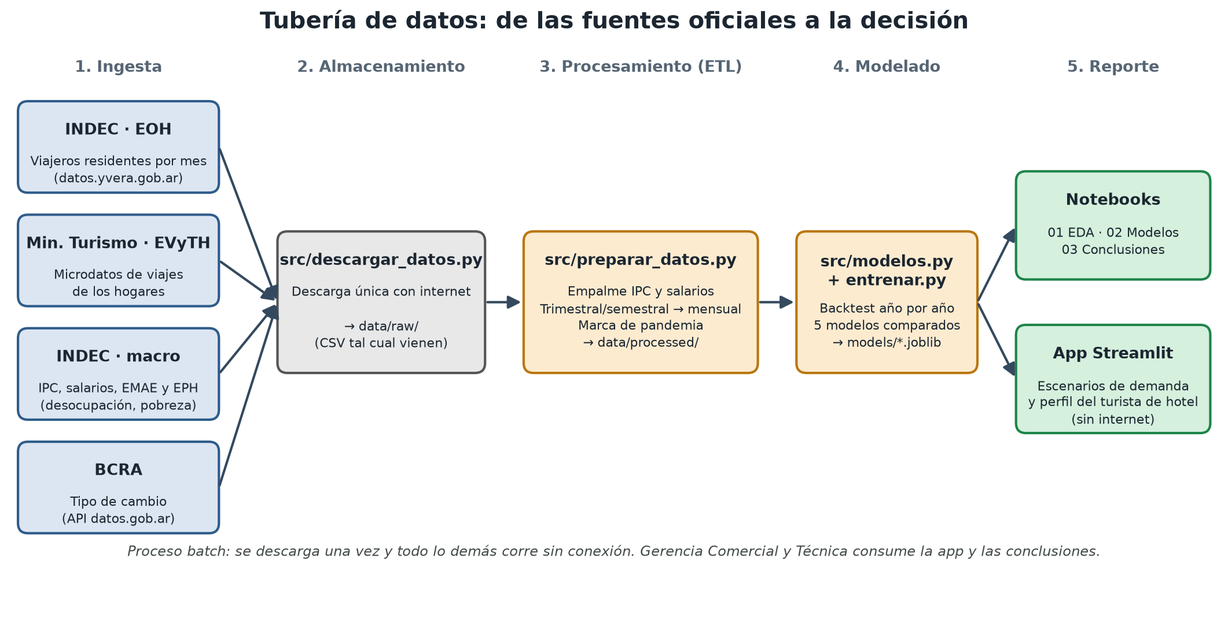
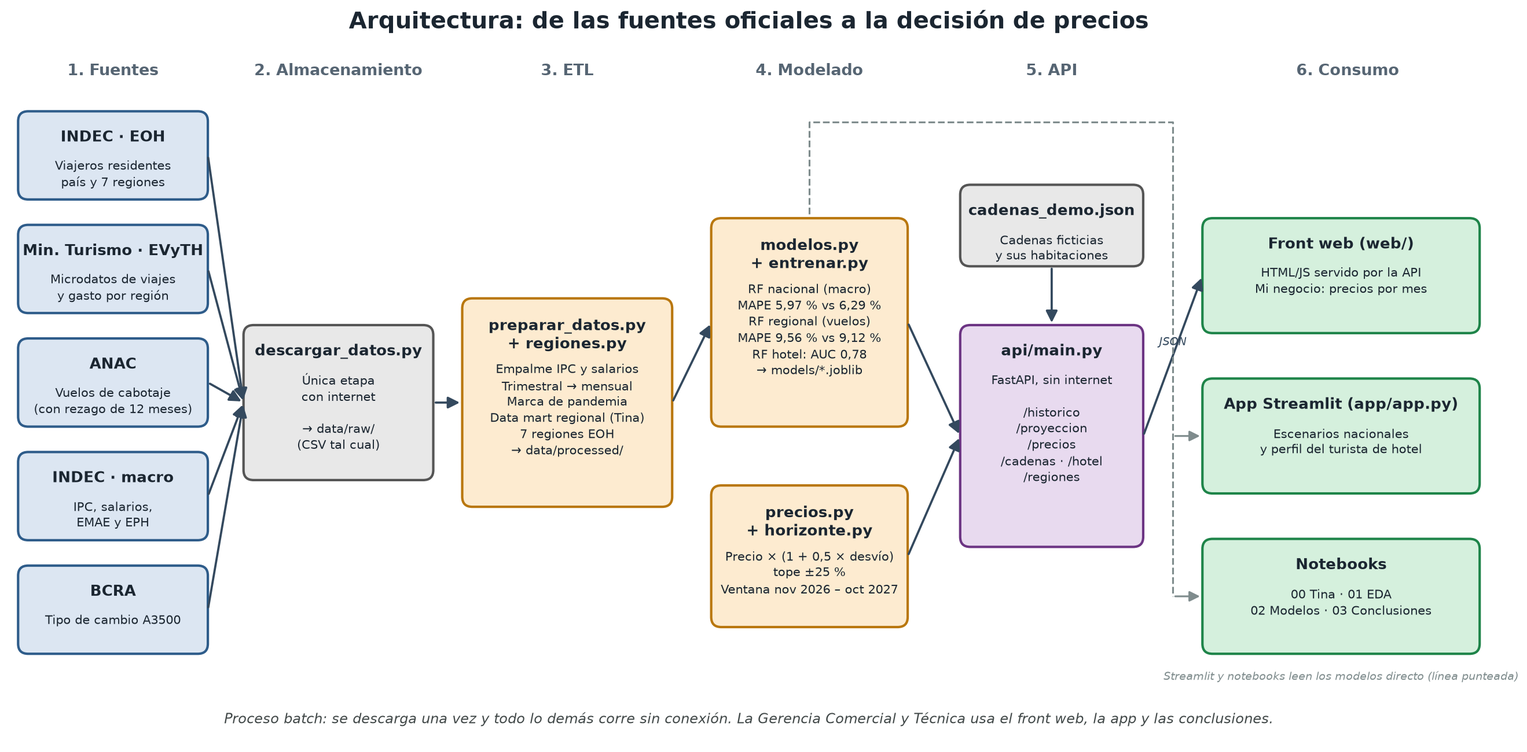
docs: hipótesis y diagrama de arquitectura al día con modelo regional, api y front

diff --git a/docs/generar_diagrama.py b/docs/generar_diagrama.py
@@ -1,4 +1,4 @@
-"""Dibuja docs/img/arquitectura.png (tubería de datos) con matplotlib.
+r"""Dibuja docs/img/arquitectura.png (arquitectura de la solución) con matplotlib.
 
 Uso: .venv\Scripts\python docs/generar_diagrama.py docs/img/arquitectura.png
 """
@@ -13,69 +13,101 @@ from matplotlib.patches import FancyArrowPatch, FancyBboxPatch
 salida = Path(sys.argv[1])
 salida.parent.mkdir(parents=True, exist_ok=True)
 
-fig, ax = plt.subplots(figsize=(18, 9), dpi=150)
-ax.set_xlim(0, 182)
-ax.set_ylim(0, 90)
+fig, ax = plt.subplots(figsize=(22, 11), dpi=150)
+ax.set_xlim(0, 220)
+ax.set_ylim(0, 110)
 ax.axis("off")
 
-COLORES = {"fuente": "#DCE6F2", "proceso": "#FDEBD0", "almacen": "#E8E8E8", "salida": "#D5F0DD"}
-BORDE = {"fuente": "#2E5C8A", "proceso": "#B9770E", "almacen": "#555555", "salida": "#1E8449"}
+COLORES = {"fuente": "#DCE6F2", "proceso": "#FDEBD0", "almacen": "#E8E8E8", "servicio": "#E8DAEF",
+           "salida": "#D5F0DD"}
+BORDE = {"fuente": "#2E5C8A", "proceso": "#B9770E", "almacen": "#555555", "servicio": "#6C3483",
+         "salida": "#1E8449"}
 
 
 def caja(x, y, w, h, titulo, detalle, tipo):
     ax.add_patch(FancyBboxPatch((x, y), w, h, boxstyle="round,pad=0.6,rounding_size=1.5",
                                 fc=COLORES[tipo], ec=BORDE[tipo], lw=2))
-    ax.text(x + w / 2, y + h - 2.6, titulo, ha="center", va="top", fontsize=13, weight="bold", color="#1B2631")
-    ax.text(x + w / 2, y + h - 7.2, detalle, ha="center", va="top", fontsize=10.5, color="#1B2631",
+    ax.text(x + w / 2, y + h - 2.2, titulo, ha="center", va="top", fontsize=12.5, weight="bold", color="#1B2631")
+    ax.text(x + w / 2, y + h - 6.4, detalle, ha="center", va="top", fontsize=10, color="#1B2631",
             linespacing=1.35)
     return (x, y, w, h)
 
 
-def flecha(a, b, lado_a="r", lado_b="l"):
+def flecha(a, b, lado_a="r", lado_b="l", etiqueta=None):
     def punto(c, lado):
         x, y, w, h = c
         return {"r": (x + w + 0.6, y + h / 2), "l": (x - 0.6, y + h / 2),
                 "t": (x + w / 2, y + h + 0.6), "b": (x + w / 2, y - 0.6)}[lado]
-    ax.add_patch(FancyArrowPatch(punto(a, lado_a), punto(b, lado_b), arrowstyle="-|>", mutation_scale=22,
-                                 lw=2, color="#34495E"))
+    p1, p2 = punto(a, lado_a), punto(b, lado_b)
+    ax.add_patch(FancyArrowPatch(p1, p2, arrowstyle="-|>", mutation_scale=20, lw=1.8, color="#34495E"))
+    if etiqueta:
+        ax.text((p1[0] + p2[0]) / 2, (p1[1] + p2[1]) / 2 + 1.2, etiqueta, ha="center", va="bottom", fontsize=9,
+                style="italic", color="#34495E")
 
 
-ax.text(91, 87, "Tubería de datos: de las fuentes oficiales a la decisión", ha="center", fontsize=19,
+ax.text(110, 107, "Arquitectura: de las fuentes oficiales a la decisión de precios", ha="center", fontsize=19,
         weight="bold", color="#1B2631")
-for x, etiqueta in [(16.5, "1. Ingesta"), (56, "2. Almacenamiento"), (95, "3. Procesamiento (ETL)"),
-                    (132, "4. Modelado"), (166, "5. Reporte")]:
-    ax.text(x, 80.5, etiqueta, ha="center", fontsize=13, weight="bold", color="#566573")
+for x, etiqueta in [(15.5, "1. Fuentes"), (49, "2. Almacenamiento"), (83, "3. ETL"), (119, "4. Modelado"),
+                    (155, "5. API"), (199, "6. Consumo")]:
+    ax.text(x, 100, etiqueta, ha="center", fontsize=13, weight="bold", color="#566573")
 
+# 1. Fuentes
 fuentes = [
-    ("INDEC · EOH", "Viajeros residentes por mes\n(datos.yvera.gob.ar)"),
-    ("Min. Turismo · EVyTH", "Microdatos de viajes\nde los hogares"),
-    ("INDEC · macro", "IPC, salarios, EMAE y EPH\n(desocupación, pobreza)"),
-    ("BCRA", "Tipo de cambio\n(API datos.gob.ar)"),
+    ("INDEC · EOH", "Viajeros residentes\npaís y 7 regiones"),
+    ("Min. Turismo · EVyTH", "Microdatos de viajes\ny gasto por región"),
+    ("ANAC", "Vuelos de cabotaje\n(con rezago de 12 meses)"),
+    ("INDEC · macro", "IPC, salarios,\nEMAE y EPH"),
+    ("BCRA", "Tipo de cambio A3500"),
 ]
-cajas_f = []
-for i, (t, d) in enumerate(fuentes):
-    y = 63 - i * 17
-    cajas_f.append(caja(2, y, 29, 12.5, t, d, "fuente"))
+cajas_f = [caja(2, 82 - i * 17, 27, 12, t, d, "fuente") for i, (t, d) in enumerate(fuentes)]
 
-desc = caja(41, 36, 30, 20, "src/descargar_datos.py", "Descarga única con internet\n\n→ data/raw/\n(CSV tal cual vienen)",
+# 2. Almacenamiento
+desc = caja(35.5, 40, 27, 22, "descargar_datos.py", "Única etapa\ncon internet\n\n→ data/raw/\n(CSV tal cual)",
             "almacen")
-prep = caja(78, 36, 34, 20, "src/preparar_datos.py", "Empalme IPC y salarios\nTrimestral/semestral → mensual\n"
-            "Marca de pandemia\n→ data/processed/", "proceso")
-mod = caja(119, 36, 26, 20, "src/modelos.py\n+ entrenar.py", "\nBacktest año por año\n5 modelos comparados\n"
-           "→ models/*.joblib", "proceso")
-nb = caja(152, 50, 28, 15, "Notebooks", "01 EDA · 02 Modelos\n03 Conclusiones", "salida")
-app = caja(152, 27, 28, 15, "App Streamlit", "Escenarios de demanda\ny perfil del turista de hotel\n(sin internet)",
+
+# 3. ETL
+prep = caja(68, 36, 30, 30, "preparar_datos.py\n+ regiones.py",
+            "\nEmpalme IPC y salarios\nTrimestral → mensual\nMarca de pandemia\n"
+            "Data mart regional (Tina)\n7 regiones EOH\n→ data/processed/", "proceso")
+
+# 4. Modelado
+mod = caja(105, 48, 28, 30, "modelos.py\n+ entrenar.py",
+           "\nRF nacional (macro)\nMAPE 5,97 % vs 6,29 %\nRF regional (vuelos)\nMAPE 9,56 % vs 9,12 %\n"
+           "RF hotel: AUC 0,78\n→ models/*.joblib", "proceso")
+reglas = caja(105, 18, 28, 20, "precios.py\n+ horizonte.py",
+              "\nPrecio × (1 + 0,5 × desvío)\ntope ±25 %\nVentana nov 2026 – oct 2027", "proceso")
+
+# 5. API
+api = caja(142, 30, 26, 32, "api/main.py",
+           "FastAPI, sin internet\n\n/historico\n/proyeccion\n/precios\n/cadenas · /hotel\n/regiones", "servicio")
+cad = caja(142, 72, 26, 11, "cadenas_demo.json", "Cadenas ficticias\ny sus habitaciones", "almacen")
+
+# 6. Consumo
+web = caja(178, 62, 40, 16, "Front web (web/)", "HTML/JS servido por la API\nMi negocio: precios por mes",
            "salida")
+st_ = caja(178, 38, 40, 16, "App Streamlit (app/app.py)", "Escenarios nacionales\ny perfil del turista de hotel",
+           "salida")
+nb = caja(178, 14, 40, 16, "Notebooks", "00 Tina · 01 EDA\n02 Modelos · 03 Conclusiones", "salida")
 
 for c in cajas_f:
     flecha(c, desc)
 flecha(desc, prep)
 flecha(prep, mod)
-flecha(mod, nb)
-flecha(mod, app)
+flecha(mod, api)
+flecha(reglas, api)
+flecha(cad, api, "b", "t")
+flecha(api, web, etiqueta="JSON")
+# Streamlit y notebooks leen modelos y datos directo, sin pasar por la API: línea punteada por arriba
+GRIS = dict(color="#7F8C8D", lw=1.5, linestyle="--")
+ax.plot([119, 119, 173, 173], [79.2, 93, 93, 22], **GRIS)
+for y in (46, 22):
+    ax.add_patch(FancyArrowPatch((173, y), (177.4, y), arrowstyle="-|>", mutation_scale=18, lw=1.5,
+                                 color="#7F8C8D"))
+ax.text(198, 9.5, "Streamlit y notebooks leen los modelos directo (línea punteada)", ha="center", fontsize=9,
+        style="italic", color="#7F8C8D")
 
-ax.text(91, 8, "Proceso batch: se descarga una vez y todo lo demás corre sin conexión. "
-        "Gerencia Comercial y Técnica consume la app y las conclusiones.",
+ax.text(110, 3, "Proceso batch: se descarga una vez y todo lo demás corre sin conexión. "
+        "La Gerencia Comercial y Técnica usa el front web, la app y las conclusiones.",
         ha="center", fontsize=11.5, style="italic", color="#424949")
 
 fig.savefig(salida, bbox_inches="tight", facecolor="white")

diff --git a/docs/hipotesis_y_arquitectura.md b/docs/hipotesis_y_arquitectura.md
@@ -1,0 +1,232 @@
+# Hipótesis y arquitectura de la solución
+
+Estado del repo al 25-10-2026 (rama `main`). Este documento reemplaza a `docs/arquitectura.md` como referencia de arquitectura; el modelo dimensional sigue allá.
+
+**Audiencia:** Gerencia Comercial y Técnica de una cadena hotelera argentina. No son especialistas en datos.
+
+---
+
+## 1. Hipótesis
+
+### 1.1 Hipótesis original (la del arranque del TPO)
+
+Tal como está en `SPEC.md`:
+
+> «La demanda de turismo interno en Argentina se puede anticipar a partir del contexto económico de los hogares (salario real, inflación, desempleo, pobreza, tipo de cambio), y eso le permite a una cadena hotelera / agencia de viajes planificar la temporada de verano con números en vez de a ojo.»
+
+### 1.2 Hipótesis actualizada — PROPUESTA (falta que el grupo la apruebe)
+
+> **PROPUESTA:** «La demanda hotelera de turismo interno en Argentina se puede anticipar para los próximos 12 meses: en el total del país, a partir del contexto económico de los hogares, y en cada región, a partir de su temporada y de los vuelos de cabotaje. Con eso, la Gerencia Comercial y Técnica de una cadena hotelera puede planificar la temporada y ajustar el precio de cada habitación según cuánto se aparta la demanda esperada de lo normal, con números en vez de a ojo.»
+
+| Pregunta de la cátedra | Respuesta |
+|---|---|
+| **¿Qué resolvemos?** | Cuántos viajeros residentes van a llegar a hoteles y parahoteles en los próximos 12 meses (nov 2026 a oct 2027), en el total del país y en cada una de las 7 regiones de la EOH, y qué precio conviene cobrar en cada mes. |
+| **¿Para quién?** | Gerencia Comercial (precios, promociones, cupos) y Gerencia Técnica (personal, mantenimiento, apertura de plazas) de una cadena hotelera. |
+| **¿Qué valor entrega en decisiones?** | 1) Un rango de demanda nacional según el escenario económico (optimista, base, pesimista) para dimensionar la temporada. 2) Un calendario por región que marca qué meses vienen por encima o por debajo de lo normal. 3) Un precio recomendado por habitación y por mes, con un tope para no hacer saltos bruscos. 4) Qué tipo de turista tiende a elegir hotel, para orientar las promociones. |
+| **¿Qué valor entrega en plata?** | La app calcula, para cada mes, el ingreso con el precio actual y con el recomendado. En las dos cadenas de ejemplo, el precio recomendado da entre +1,9 % y +3,0 % de ingreso en los 12 meses. **Ese número supone que la ocupación no cambia cuando cambia el precio** (ocupación base de 60 % ajustada por la demanda), así que es un techo, no una promesa. Las cadenas son ficticias y los precios son de demostración. |
+
+**Qué cambia respecto de la original:**
+
+- Se pasa de «el verano» a una **ventana de 12 meses** (nov 2026 a oct 2027).
+- Se suma la **demanda por región** y la **recomendación de precios**.
+- Se saca la **pobreza**: tiene huecos de 2007 a 2016 y nunca entró al modelo.
+- Se dice explícitamente qué mueve cada nivel: la macro mueve el total país y las regiones; los vuelos y la temporada, además, las regiones.
+
+### 1.3 Qué dicen los resultados
+
+Error promedio (MAPE) en la prueba año por año. En cada año, el modelo entrena solo con los años anteriores. Los años de prueba son 2014 a 2019 y 2023 a 2025; la pandemia queda afuera.
+
+| Nivel | Modelo | Error del modelo | Error de «mismo mes del año anterior» | ¿Se confirma? |
+|---|---|---|---|---|
+| Total país | Random Forest con variables macro | **5,97 %** | 6,29 % | **Sí.** Le gana a la regla actual, sobre todo en años de crisis (2018: 3,5 % contra 5,2 %; 2019: 2,6 % contra 4,0 %; 2025: 3,8 % contra 4,8 %). Pierde en 2023, el año de PreViaje (7,9 % contra 5,7 %). |
+| Por región (7 regiones) | Random Forest con vuelos de cabotaje, temporada, salario real, inflación y EMAE, con restricciones de monotonía | **9,01 %** | 9,12 % | **Apenas.** Le gana por poco a la regla actual en promedio. Gana en CABA (7,4 % contra 8,6 %) y Litoral (7,7 % contra 9,1 %), empata en Buenos Aires y Córdoba y pierde en Cuyo (10,9 % contra 9,9 %), Norte (9,1 % contra 8,6 %) y Patagonia (9,1 % contra 8,7 %). Sin macro daba 9,56 %; con las 5 macro sin restricciones, 9,35 %. |
+| Quién va a hotel | Random Forest sobre la EVyTH | AUC **0,78** (árbol de decisión: 0,74), probado con viajes de 2022 en adelante | — | **Sí, para ordenar segmentos.** Su salida es una **propensión relativa**, no una probabilidad: el modelo se entrenó con clases balanceadas, así que un 60 % significa «más propenso que el turista promedio», no «6 de cada 10 van a hotel». |
+
+**En una frase para la gerencia:** en el total del país la economía ayuda a anticipar la demanda y el modelo mejora a la regla actual. Por región, apenas: el modelo regional se equivoca un poco menos que mirar el mismo mes del año anterior (9,01 % contra 9,12 %), y los escenarios mueven cada región en el orden esperado.
+
+**Decisiones y límites que hay que decir en la defensa:**
+
+- **El modelo regional se mantiene por decisión del grupo** (se decidió cuando todavía no le ganaba a la regla). Aporta la ventana completa por región y la conexión con los vuelos. Hoy le gana a la regla por 0,11 puntos de error: una mejora chica.
+- **Las variables macro entran al modelo regional con su signo esperado.** Con `monotonic_cst` el RF regional no puede hacer que suba la demanda cuando sube la inflación o la desocupación, ni que baje cuando suben el salario real o la actividad (el tipo de cambio queda libre). Con esa restricción, la selección de a una incorpora **salario real, inflación y EMAE** (9,01 %); desocupación, tipo de cambio real, gasto en USD y el bloque completo no bajan el error. Los escenarios económicos **mueven el total país y también las regiones** (`escenarios_afectan_region: true` en la API, calculado desde el modelo).
+- **El orden de los escenarios por región es el esperado** (pesimista ≤ base ≤ optimista) en los 84 meses × región de la ventana, y hay un test que lo verifica. Sin las restricciones había 27 meses fuera de orden. El tipo de cambio real (+15 % en el pesimista) no está restringido, pero no entró al modelo regional.
+- **Monotonía en el modelo nacional (propuesta, no aplicada):** con las mismas restricciones, el backtest nacional baja de 5,97 % a 5,88 % y los escenarios siguen ordenados, pero el escenario base de la ventana baja de 15,33 M a 14,96 M. Queda para que decida el grupo.
+- **Hay 11 meses puente.** El último dato real de la EOH es nov 2025, y entre dic 2025 y oct 2026 la demanda también es estimada. El error de la ventana real de pronóstico es probablemente mayor que el del backtest, que predice a 1 a 12 meses de distancia.
+- El modelo nacional no conoce subsidios como PreViaje. Ante programas así, su número es un piso.
+
+---
+
+## 2. Arquitectura
+
+Es un proceso **batch**. Las fuentes oficiales se descargan una sola vez, y desde ahí todo corre en la computadora **sin internet**: ETL, entrenamiento, API, front web, Streamlit y notebooks. Sigue el pipeline de clase (ingesta, almacenamiento, procesamiento y reporte), con una etapa de modelado y una de servicio (API) antes del reporte.
+
+![Arquitectura](img/arquitectura.png)
+
+> Imagen para las diapositivas: `docs/img/arquitectura.png`. Se regenera con `.venv\Scripts\python docs/generar_diagrama.py docs/img/arquitectura.png`.
+
+### 2.1 Diagrama general
+
+```mermaid
+flowchart LR
+    subgraph FUE["1. Fuentes oficiales"]
+        EOH["INDEC · EOH<br/>viajeros residentes<br/>país y 7 regiones"]
+        EVY["Min. Turismo · EVyTH<br/>microdatos + gasto por región"]
+        ANAC["ANAC · vuelos de cabotaje<br/>(datos.yvera.gob.ar)"]
+        MAC["INDEC · IPC, salarios,<br/>EMAE, EPH"]
+        BCRA["BCRA · tipo de cambio<br/>A3500"]
+    end
+
+    subgraph ALM["2. Almacenamiento"]
+        DESC["src/descargar_datos.py<br/>única etapa con internet"]
+        RAW[("data/raw/<br/>CSV tal cual")]
+    end
+
+    subgraph ETL["3. ETL"]
+        PREP["src/preparar_datos.py<br/>+ src/regiones.py"]
+        PROC[("data/processed/<br/>mensual · mensual_region<br/>vuelos_mensual · evyth_turistas")]
+    end
+
+    subgraph MOD["4. Modelado"]
+        ENT["src/modelos.py + src/entrenar.py<br/>backtest año por año"]
+        JOB[("models/*.joblib<br/>nacional · regional · hotel")]
+        REG["src/precios.py<br/>src/horizonte.py"]
+    end
+
+    subgraph API["5. Servicio"]
+        FAST["api/main.py<br/>FastAPI"]
+    end
+
+    subgraph REP["6. Consumo"]
+        WEB["Front web<br/>web/ (HTML/JS)"]
+        ST["App Streamlit<br/>app/app.py"]
+        NB["Notebooks<br/>00 Tina · 01 EDA<br/>02 Modelos · 03 Conclusiones"]
+    end
+
+    EOH & EVY & ANAC & MAC & BCRA --> DESC --> RAW --> PREP --> PROC --> ENT --> JOB
+    JOB --> FAST
+    PROC --> FAST
+    REG --> FAST
+    CAD[("data/cadenas_demo.json<br/>cadenas ficticias")] --> FAST
+    FAST -->|JSON| WEB
+    JOB --> ST
+    PROC --> NB
+    JOB --> NB
+    WEB --> GER(["Gerencia Comercial y Técnica"])
+    ST --> GER
+    NB --> GER
+```
+
+### 2.2 Qué hay en cada capa
+
+**Fuentes** (detalle de URLs y rangos en `data/FUENTES.md`)
+
+| Fuente | Organismo | Qué aporta | Hasta |
+|---|---|---|---|
+| EOH (país y por región de destino) | INDEC / Min. Turismo (datos.yvera.gob.ar) | Variable objetivo: viajeros residentes por mes | 2025-11 |
+| EVyTH microdatos | Min. Turismo | Perfil de cada viaje (para el modelo de hotel) | 2024-T2 |
+| EVyTH gasto promedio por región | Min. Turismo | Gasto por turista (pasado a USD); se probó en el modelo regional y no entró | 2024-T2 |
+| Vuelos, asientos y pasajeros | ANAC (datos.yvera.gob.ar) | Conectividad aérea de cabotaje, total país | 2026-07 |
+| IPC Nacional + IPC San Luis, índice de salarios + ISO, EMAE, EPH | INDEC y San Luis (API datos.gob.ar) | Contexto económico de los hogares | 2026-06 a 2026-08 |
+| Tipo de cambio A3500 | BCRA | Tipo de cambio real y conversión del gasto a USD | 2026-10 |
+
+**Almacenamiento y ETL**
+
+| Archivo | Tecnología | Responsabilidad |
+|---|---|---|
+| `src/descargar_datos.py` | Python + requests | Baja cada fuente una vez. Es la única etapa que necesita internet. |
+| `data/raw/` | CSV | Copia fiel de las fuentes; permite rehacer todo sin volver a descargar. |
+| `src/preparar_datos.py` | pandas | Empalma el IPC (San Luis hasta 2016-12) y los salarios (ISO hasta 2015-07), pasa lo trimestral y semestral a mensual y marca la pandemia (2020-03 a 2021-12). Arma el data mart regional (EOH por región, gasto EVyTH en USD con el A3500 y vuelos ANAC de cabotaje) y limpia la EVyTH. |
+| `src/regiones.py` | Python | Tabla única de las 7 regiones de la EOH (INDEC, Metodología N.º 34). La Rioja va en Cuyo y La Pampa en Patagonia. |
+| `notebooks/00_tina_datamart.ipynb` | Jupyter | Trabajo original de Tina, que es la base del data mart y del modelo regional. |
+| `data/processed/` | CSV | `mensual.csv` (país + macro), `mensual_region.csv` (7 regiones), `vuelos_mensual.csv`, `evyth_turistas.csv` y resultados de backtest y proyecciones. |
+
+**Modelado y reglas de negocio**
+
+| Archivo | Tecnología | Responsabilidad |
+|---|---|---|
+| `src/modelos.py` | scikit-learn | Tres modelos: (1) **nacional**, un RF que predice la variación interanual de viajeros con mes, salario real, inflación, desocupación, tipo de cambio real y actividad; (2) **regional**, un RF con región, temporada y variación de vuelos, asientos y pasajeros de cabotaje con 12 meses de rezago; (3) **hotel**, un RF clasificador sobre la EVyTH con `class_weight="balanced"`. En los dos de demanda, viajeros = mismo mes del año anterior × (1 + variación). |
+| `src/entrenar.py` | Python | Corre los backtests, la selección de variables regional, reentrena y guarda los `.joblib` y las proyecciones. |
+| `models/*.joblib` | joblib | `demanda_rf`, `demanda_region_rf`, `hotel_rf` y `hotel_arbol`. |
+| `src/horizonte.py` | pandas | Ventana de pronóstico: los 12 meses que siguen a hoy (nov 2026 a oct 2027). Cada mes se marca como real, puente, pronóstico o tendencia. |
+| `src/precios.py` | numpy | Regla de precios: desvío = demanda proyectada de la región / mismo mes del último año real − 1; **precio recomendado = precio × (1 + 0,5 × desvío)**, con el ajuste acotado a **±25 %**. También calcula la ocupación esperada y el ingreso por mes. |
+| `data/cadenas_demo.json` | JSON | Dos cadenas ficticias (Cadena Andina y Grupo Pampa) con hoteles, regiones, habitaciones y precios de ejemplo. |
+
+**Servicio y consumo**
+
+| Archivo | Tecnología | Responsabilidad |
+|---|---|---|
+| `api/main.py` | FastAPI + uvicorn | Lee `data/processed/` y `models/` una sola vez y expone `GET /regiones`, `GET /historico`, `POST /proyeccion`, `POST /hotel`, `GET /cadenas`, `GET /cadenas/{id}` y `POST /precios`. Sin región usa el modelo nacional; con región, el regional. |
+| `web/` | HTML + JS | Front para la gerencia: entrar como cadena, panel con mapa por región, «Mi negocio» con precios, supuestos económicos y perfil del turista. Consume la API y lo sirve la misma API. Lo está construyendo otro agente; el diseño de referencia es el prototipo de Claude Design (https://claude.ai/artifact/Q5SzerUABzML1Zj8AnQHcT, pantallas en `docs/diseno/README.md`). |
+| `app/app.py` | Streamlit + plotly | App anterior, que sigue vigente: escenarios nacionales, controles para mover la macro y perfil de hotel. Lee los modelos directo, sin pasar por la API. |
+| `notebooks/01` a `03` | Jupyter | EDA, comparación de modelos y conclusiones con storytelling. |
+| `tests/` | pytest | Preparación de datos, modelos, horizonte, precios y API. |
+
+### 2.3 Consulta típica: la cadena entra y pide precios
+
+```mermaid
+sequenceDiagram
+    actor G as Gerente comercial
+    participant W as Front web (web/)
+    participant A as API (api/main.py)
+    participant H as horizonte.py
+    participant M as Modelo regional (RF)
+    participant P as precios.py
+    participant D as data/processed + cadenas_demo.json
+
+    G->>W: Entra y elige su cadena (demo, sin contraseña)
+    W->>A: GET /cadenas
+    A->>D: lee cadenas_demo.json
+    A-->>W: Cadena Andina, Grupo Pampa
+    W->>A: GET /cadenas/andina
+    A-->>W: hoteles, región de cada uno, habitaciones y precio actual
+    G->>W: Abre «Mi negocio»
+    W->>A: POST /precios {cadena_id, escenario, sensibilidad 0,5, tope 25 %}
+    A->>H: ventana_pronostico(hoy)
+    H-->>A: nov 2026 a oct 2027 (desde nov 2025 son meses puente)
+    loop por cada hotel de la cadena
+        A->>M: proyectar la región del hotel hasta oct 2027
+        M-->>A: viajeros por mes (puente + ventana)
+        A->>P: desvío contra el mismo mes del último año real
+        P-->>A: precio recomendado = precio × (1 + 0,5 × desvío), acotado a ±25 %
+    end
+    A-->>W: precio actual y recomendado por habitación y mes, sube/baja/se mantiene, ingreso estimado y nota de escenarios
+    W-->>G: Calendario de la región, tabla de habitaciones e impacto en ingresos
+    G->>W: Edita un precio y recalcula
+    W->>A: POST /precios {..., precios: [{publicacion_id, precio_ars}]}
+    A-->>W: Recomendación con el precio nuevo
+```
+
+Las proyecciones regionales quedan en caché dentro de la API (`functools.cache`), así que la segunda consulta de la misma región responde al instante.
+
+### 2.4 Decisiones clave y por qué
+
+| Decisión | Por qué |
+|---|---|
+| **Batch y sin internet** (solo la descarga inicial la necesita) | La consigna exige que la defensa funcione sin depender de la red del aula. Además, las fuentes publican datos mensuales o trimestrales, así que no hace falta tiempo real. |
+| **CSV y joblib, sin base de datos** | Son pocos datos (unos 230 meses por serie y 242 mil viajes). Una base agregaría instalación y servicios sin ganar nada. El modelo dimensional se guarda desnormalizado (OBT), como se explica en `docs/arquitectura.md`. |
+| **Predecir la variación interanual y no el nivel** | La regla «mismo mes del año anterior» ya captura la temporada. Al modelo se le pide solo lo que esa regla no sabe. Además, un Random Forest no extrapola fuera del rango histórico, y la variación sí queda dentro de ese rango. |
+| **Validación año por año**, sin mezclar el futuro en el entrenamiento | Simula cómo se habría usado el modelo en el pasado. Es la única forma honesta de comparar contra la regla actual. |
+| **Pandemia fuera del entrenamiento** (2020-03 a 2021-12, y 2022 como objetivo interanual) | La demanda dependió de las restricciones y no de la economía. |
+| **Dos modelos de demanda separados** (nacional con macro; regional con región, temporada, vuelos y macro) | El regional necesita la región y los vuelos. De la macro entran salario real, inflación y EMAE, con restricciones de monotonía para que respeten el signo esperado: bajan su error (9,56 % → 9,01 %) y ordenan los escenarios en todas las regiones. |
+| **Modelo regional mantenido** aunque su ventaja sobre la regla sea chica (9,01 % contra 9,12 %) | Decisión del grupo: da la ventana completa por región y usa vuelos de cabotaje que ya están publicados hasta jul 2026. Se informa el resultado sin maquillar. |
+| **Vuelos con 12 meses de rezago y sin supuesto en los escenarios** | Con 12 meses de rezago, casi toda la ventana usa vuelos ya observados (hasta jul 2027 inclusive). Los escenarios dejan los vuelos sin cambio porque, con pocos años útiles (2019, 2024 y 2025), el modelo aprendió un signo al revés por el shock de 2024. Lo que mueve los escenarios regionales es la macro. |
+| **7 regiones de la EOH verificadas con INDEC** (La Rioja en Cuyo) | Es la definición de la variable objetivo. La EVyTH pone La Rioja en Norte: se corrige en los microdatos, pero no en la serie de gasto, que ya viene agregada. |
+| **Precio con sensibilidad 0,5 y tope de ±25 %, contra el mismo mes del último año real, calculado sobre el precio publicado** | Es una regla simple y explicable: la mitad del desvío de demanda pasa al precio, y el tope evita saltos que espanten clientes. El promedio de 3 años incluye 2023 (PreViaje), que fue un año alto, y predecía peor. Comparar con el mismo mes del año anterior estimado (`anio_anterior`) no mejora a la distancia de la ventana (12,45 % contra 12,38 %). El recomendado se calcula siempre sobre el precio publicado (o un `precio_base`), así aplicar la recomendación no la encadena. Sensibilidad, tope y referencia se pueden cambiar en la API. |
+| **Hotel: propensión relativa, no probabilidad** | Con `class_weight="balanced"`, el modelo infla la clase «hotel». Sirve para ordenar perfiles de más a menos propensos, no para decir qué porcentaje va a hotel. |
+| **API FastAPI + front HTML/JS servido por la misma API** | Hay un solo proceso que levantar en la defensa. El front no hace cálculos: toda la lógica queda en `src/`, testeada, y la usan igual la API, Streamlit y los notebooks. |
+| **Streamlit se mantiene** | Ya está probada sin internet y sirve como plan B de la demo si el front web no llega. |
+
+---
+
+## 3. Pendientes y contradicciones encontradas
+
+Están en archivos que no se tocaron acá, porque otros agentes trabajan en ellos.
+
+1. **Hipótesis desalineada en cuatro lugares.** `SPEC.md` incluye pobreza, `README.md` incluye actividad y no pobreza, y `docs/presentacion.md` usa una versión corta sin regiones ni precios. Cuando el grupo apruebe la propuesta de la sección 1.2, hay que unificarla en `SPEC.md`, `README.md` y `docs/presentacion.md`.
+2. **`POST /hotel` devuelve el campo `probabilidad`**, y `docs/diseno/README.md` dice «Probabilidad de alojarse en hotel». Es una propensión relativa. La docstring de la API y Streamlit ya lo dicen bien; falta renombrar el campo o la etiqueta del front.
+3. **`api/main.py` todavía no sirve `web/`** (no hay `StaticFiles` ni carpeta `web/` en el repo hoy). Depende del agente del front.
+4. **`README.md` y `SPEC.md` no mencionan la API, el front web, el modelo regional ni la ventana de 12 meses.** El README sigue hablando del verano 2027 (3,06 millones en el escenario base) y de la app Streamlit como única aplicación. La tabla de entregables de `SPEC.md` apunta a `docs/arquitectura.md` y a `app/app.py`.
+5. **`docs/presentacion.md` no tiene diapositivas del modelo regional ni de precios,** ni la frase honesta «el regional le gana a la regla solo por poco (9,01 % contra 9,12 %)». La diapositiva 4 describe cuatro fuentes, y ahora son cinco (falta ANAC).
+6. **Resuelto (25-10-2026). Matiz de la selección de variables regional.** De a una, las macro subían el error y el bloque de las 5 lo bajaba a 9,35 %, pero desordenaba los escenarios (optimista por debajo del base en 27 meses × región). **Se resolvió con restricciones de monotonía** (`monotonic_cst`): con ellas, la selección de a una incorpora salario real, inflación y EMAE, el error baja a **9,01 %** (por debajo de la regla, 9,12 %) y los escenarios quedan ordenados en todas las regiones.
+7. **El ingreso estimado de `/precios` no tiene en cuenta la reacción de la demanda al precio** (ocupación fija de 60 % × desvío), así que subir precios siempre da más ingreso. Hay que decirlo en la demo o sumar un supuesto de elasticidad.
+8. **Resuelto (25-10-2026). Sesgo al alza de la recomendación.** El desvío compara un mes de la ventana (por ejemplo, ene 2027) contra el mismo mes del último año real (ene 2025), con dos años de variación en el medio. Se probó la referencia `anio_anterior` (el mismo mes 12 meses antes, real o puente): en el backtest a 2 años no mejora (12,45 % contra 12,38 %), así que **`ultimo_anio` sigue por defecto** y `anio_anterior` queda como opción en `POST /precios`. Con el modelo monótono, en las cadenas de ejemplo (252 publicaciones × mes, escenario base) quedan **152 «sube», 0 «baja» y 100 «se mantiene»** (con `anio_anterior`: 29, 0 y 223). Además, el recomendado ahora se calcula sobre el precio publicado: aplicar la recomendación ya no la encadena (85.000 → 87.100 → 89.300). El front tiene que aclarar que el desvío es contra el último año real.
+9. **Notebooks `02_modelos` y `03_conclusiones` con cambios sin commitear.** Antes de la defensa, hay que verificar que sus números coincidan con los de este documento (5,97 % / 6,29 %, 9,01 % / 9,12 %, AUC 0,78).

diff --git a/docs/arquitectura.md b/docs/arquitectura.md
@@ -1,5 +1,7 @@
 # Arquitectura de la solución
 
+> **Aviso (25-10-2026):** la arquitectura vigente está en [`hipotesis_y_arquitectura.md`](hipotesis_y_arquitectura.md). Ese documento suma el modelo regional, los vuelos ANAC, la API FastAPI, el front web, la regla de precios y la ventana nov 2026 a oct 2027. La imagen `img/arquitectura.png` ya muestra la arquitectura nueva. La sección 1 de este archivo queda como historial de la primera versión (solo Streamlit y notebooks). La **sección 2 (modelo dimensional) sigue vigente**; le falta el data mart regional (grano: mes × región, con vuelos de cabotaje y gasto en USD).
+
 Entregable 2 de la consigna: de dónde salen los datos, cómo se procesan y dónde terminan.
 
 Es un proceso **batch**: las fuentes se descargan una sola vez y desde ahí todo corre sin internet. Sigue las cuatro etapas de un *data pipeline* vistas en clase (ingesta → almacenamiento → procesamiento → reporte), con una etapa de modelado entre el procesamiento y el reporte.
